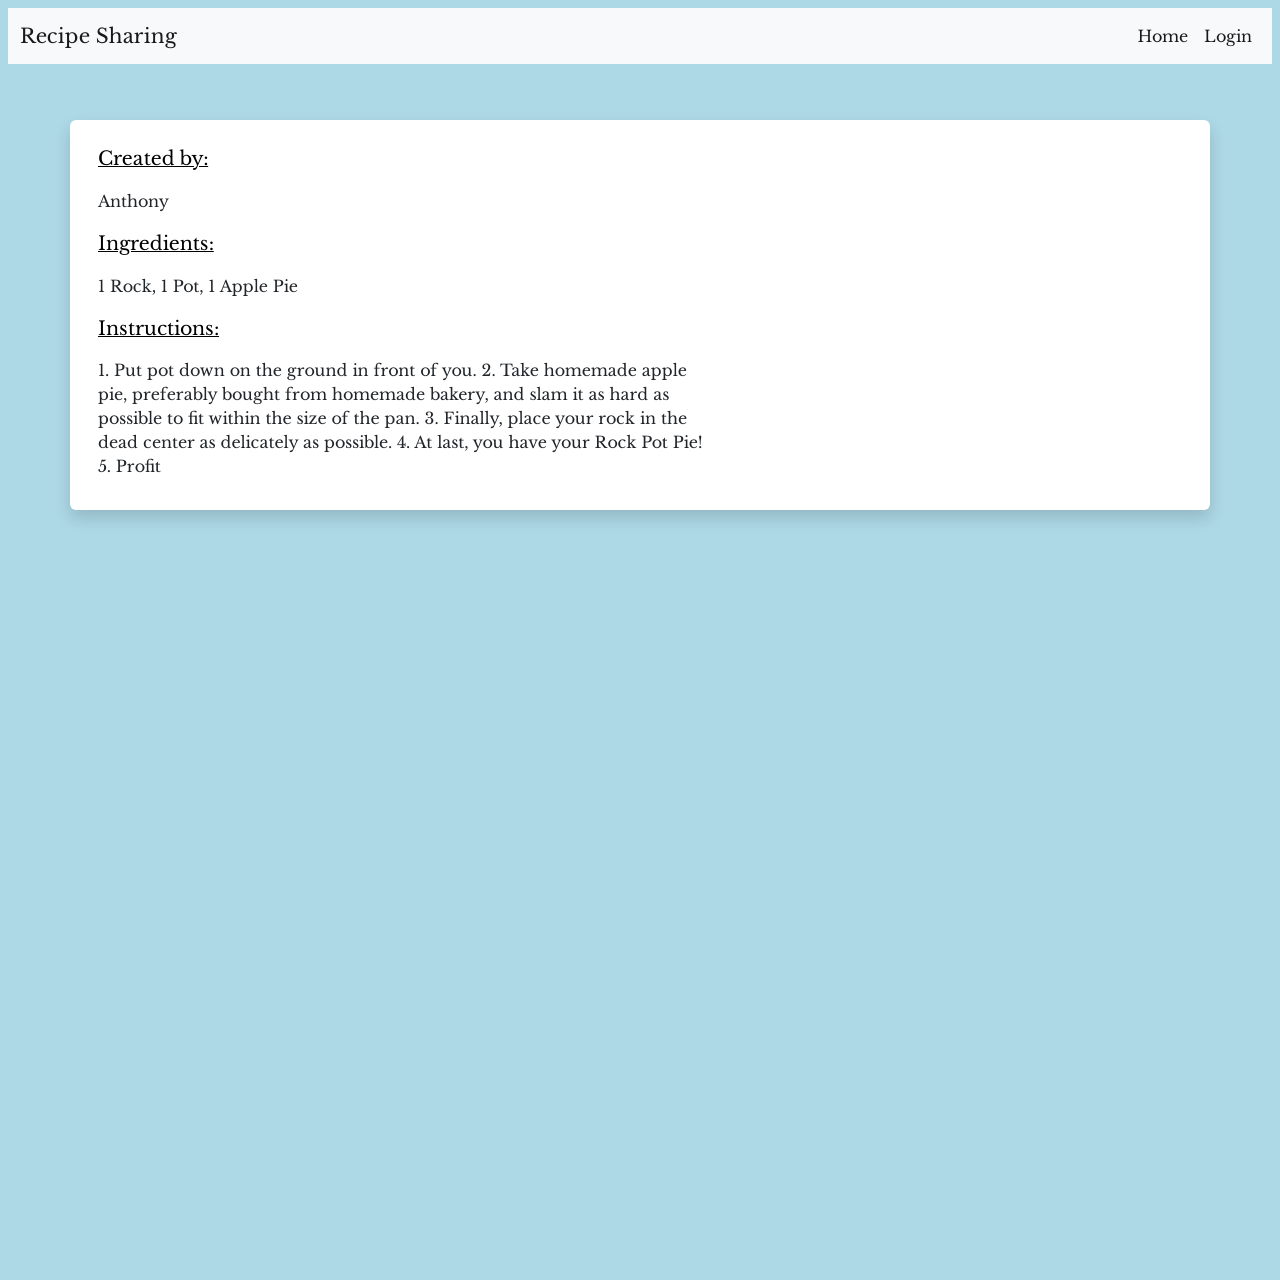
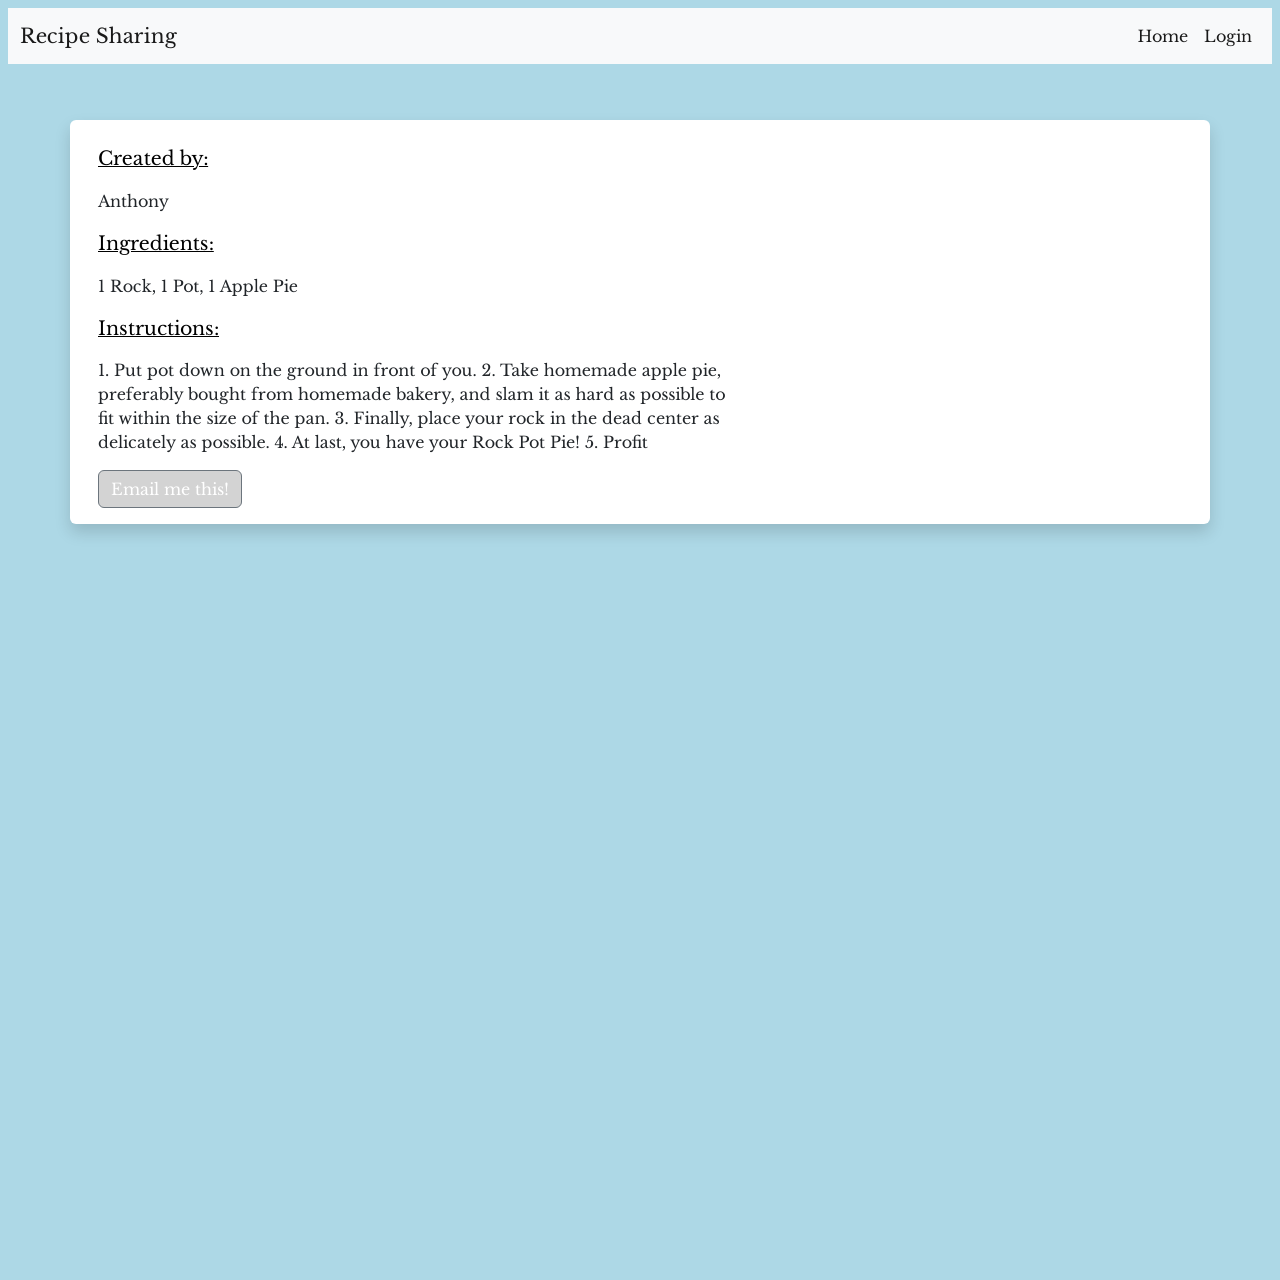
added info about email functionality, adjusted photos

Changed region(s): [[0.0625, 0.2812, 0.9375, 0.4062]]

diff --git a/README.md b/README.md
@@ -17,7 +17,9 @@
 7. For the recipes, we allowed the user the ability to delete their recipes after creation, figuring this could be a super helpful feature! 
 <br>(just incase they realized that rock pot pie is *_not_* such a good idea)
 
-8. This project was the second collaborative coding effort for this boot camp, and was a great lesson in things like working towards a shared goal in a team, divvying up tasks, and sharing creative problem-solving techniques amongst each other to find success!
+8. With a big thanks to Sean, we implimented an "Email me this" button on the Recipe pages that will send the recipe to the corresponding email associate to your user account using nodemailer. We figured this would be a decent way to catalog your emails elsewhere!
+
+9. This project was the second collaborative coding effort for this boot camp, and was a great lesson in things like working towards a shared goal in a team, divvying up tasks, and sharing creative problem-solving techniques amongst each other to find success!
 
 ## Installation and Usage
 
